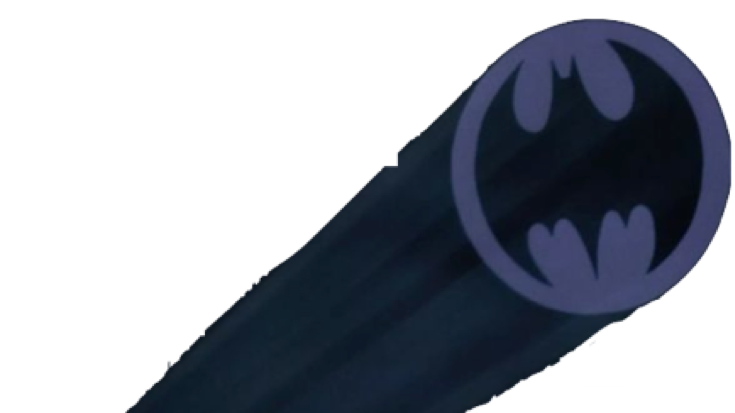
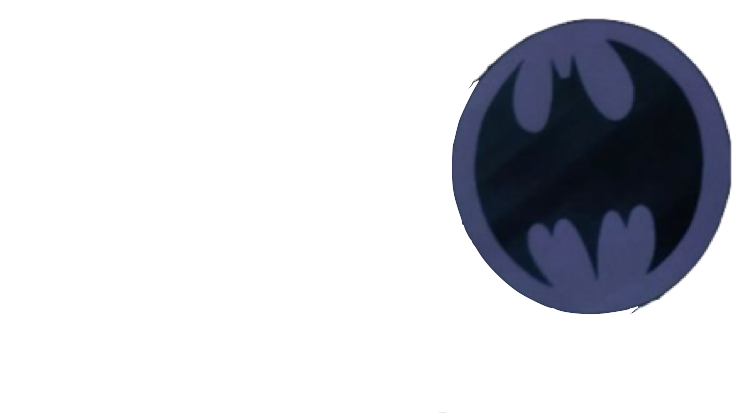
new stuff

Changed region(s): [[0.1497, 0.2034, 0.868, 1.0]]

diff --git a/index.html b/index.html
@@ -6,15 +6,15 @@
 <head>
 	<style type="text/css">
 		#batsignal{
-			width:300px;
-			height:300px;
+			width:350px;
+			height:350px;
 			background-image:url(bat_signal.png);
 			background-size:contain;
 			background-repeat:no-repeat;
 			opacity: 0.6;
 			position:absolute;
-			left:1050px;
-			top:475px;*/
+			left:1000px;
+			top:100px;*/
 
 
 
